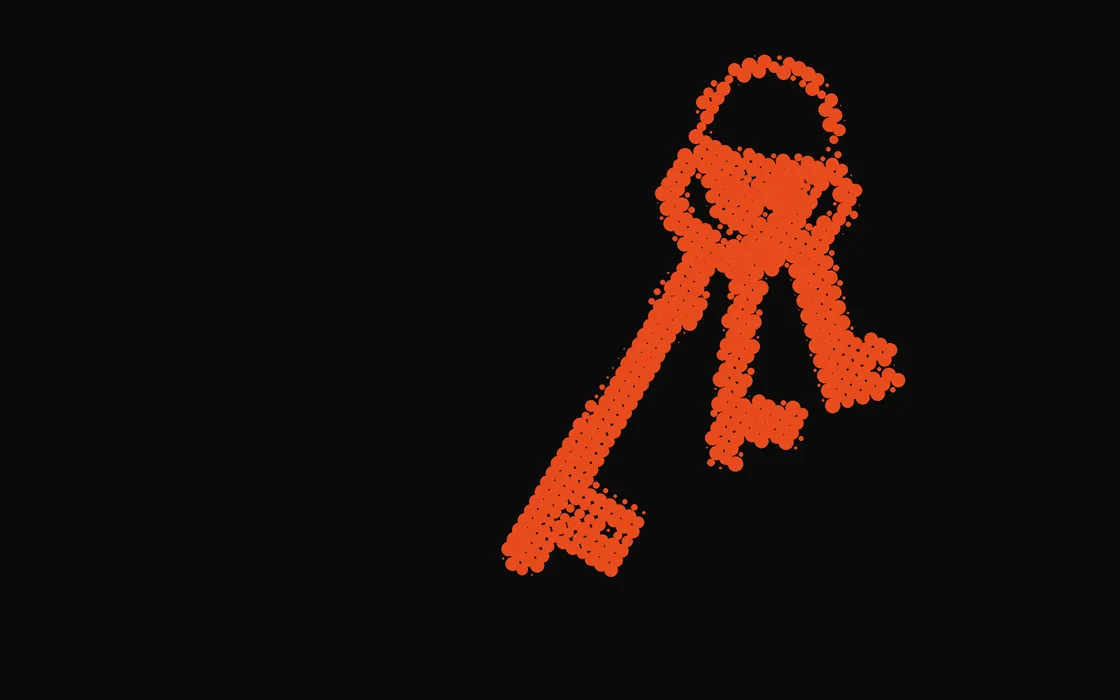
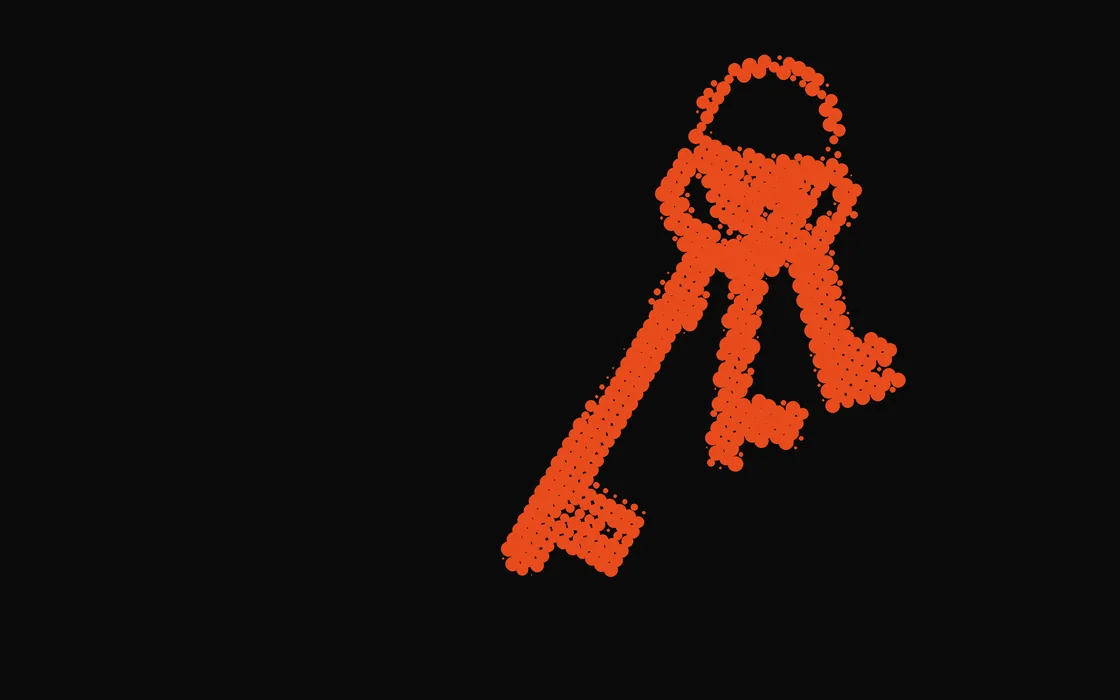
Site v4.1: page signatures, dither boil, "Deploy your agency"
- Home hero: "Deploy your agency." (title + description toned down to match)
- Services: 3D card-deck hero, one chapter per service with what's included and a pip rail, scroll-lit 5-step track, creative lanes as a hover-peek index
- About: full-bleed dot-screen arena hero that zooms on scroll, LoRes stadium scoreboard with count-up
- Products: split-screen hero with two tilting doors, one detail row per product
- Every dot-screen image now "boils" (3-frame animated WebP); reduced-motion visitors get the still frame

Claude-Session: https://claude.ai/code/session_01QV1MT2BqUvTKXwf99KFJbN

diff --git a/site.css b/site.css
@@ -14,6 +14,7 @@ body{background:var(--ink);font-family:var(--text);font-size:17px;line-height:1.
 a{color:inherit}
 ::selection{background:var(--orange);color:var(--ink)}
 img{display:block;max-width:100%}
+picture{display:contents}
 .wrap{width:min(var(--max),100% - 2*var(--gutter));margin:0 auto}
 .mono{font-family:var(--mono);font-weight:400;text-transform:uppercase;letter-spacing:.1em;font-size:12px}
 
@@ -152,6 +153,110 @@ a.tile:focus-visible{outline:2px solid var(--orange);outline-offset:3px}
 .sign nav a:hover{color:var(--paper)}
 .sign .legal{flex-basis:100%;margin:0;font-size:12px;line-height:1.5;color:var(--muted)}
 
+/* ================= page signatures (v4.1) ================= */
+
+/* SERVICES · hero deck: the four services as cards fanned in 3D */
+.deck{position:relative;justify-self:end;width:118%;max-width:640px;aspect-ratio:1/1;perspective:1300px;margin-right:-6%}
+.deck .rig{position:absolute;inset:0;transform-style:preserve-3d}
+.deck img{position:absolute;left:4%;top:20%;width:92%;height:auto;aspect-ratio:16/10;object-fit:cover;border:1px solid rgba(244,241,236,.18);background:var(--ink);will-change:transform;
+  box-shadow:0 30px 60px -30px rgba(0,0,0,.9),0 0 0 1px rgba(232,75,28,.06)}
+
+/* SERVICES · chapters: one service per band, image + what's included, pip rail tracks position */
+.chap{display:grid;grid-template-columns:minmax(0,1.15fr) minmax(0,.85fr);gap:clamp(28px,5vw,88px);align-items:center;padding:14vh 0;border-top:1px solid var(--line);scroll-margin-top:80px}
+.chap:nth-child(even) .media{order:2}
+.chap .media{position:relative;border:1px solid var(--line);perspective:1400px}
+.chap .media img{width:100%;aspect-ratio:16/10;object-fit:cover}
+.chap .media .cap{position:absolute;left:0;right:0;height:0;border-top:1.5px dashed var(--paper)}
+.chap .media .cap span{position:absolute;right:14px;top:-20px;font-family:var(--mono);font-weight:700;font-size:11px;letter-spacing:.1em}
+.chap .nm{font-family:var(--mono);text-transform:uppercase;letter-spacing:.1em;font-size:12px;color:var(--orange)}
+.chap h2{font-family:var(--display);font-style:italic;font-weight:900;letter-spacing:-.04em;line-height:.96;font-size:clamp(40px,4.8vw,76px);margin-top:14px}
+.inc{list-style:none;margin-top:4vh;border-top:1px solid var(--line)}
+.inc li{display:flex;gap:14px;align-items:center;padding:13px 0;border-bottom:1px solid var(--line);font-family:var(--mono);font-size:13px;letter-spacing:.04em;text-transform:uppercase;color:var(--body)}
+.inc li::before{content:"";width:13px;height:14px;flex:none;background:url(img/mark-slash.svg) center/contain no-repeat}
+.rail{position:fixed;left:max(14px,calc((100vw - var(--max)) / 2 - 44px));top:50%;transform:translateY(-50%);z-index:20;display:flex;flex-direction:column;gap:8px;opacity:0;transition:opacity .4s ease}
+.rail.on{opacity:1}
+.rail a{display:block;width:10px;height:22px;background:rgba(244,241,236,.18);transition:background-color .3s ease,transform .45s var(--spring)}
+.rail a.lit{background:var(--orange);transform:scaleY(1.25)}
+.rail a:hover{background:var(--paper)}.rail a:focus-visible{outline:2px solid var(--orange);outline-offset:3px}
+
+/* SERVICES · track: the five steps light up as you scroll */
+.track{position:relative;height:230vh}
+.track .stage{position:sticky;top:0;height:100vh;height:100svh;display:flex;flex-direction:column;justify-content:center}
+.track .line{position:relative;height:2px;background:rgba(244,241,236,.14);margin:8vh 0 0}
+.track .fill{position:absolute;inset:0;background:var(--orange);transform-origin:left;transform:scaleX(var(--p,0))}
+.track ol{list-style:none;display:grid;grid-template-columns:repeat(5,minmax(0,1fr));margin-top:-18px}
+.track li{position:relative}
+.track .n{display:grid;place-items:center;width:36px;height:36px;font-family:var(--score);font-weight:700;font-size:18px;color:var(--orange);background:var(--ink);border:1px solid var(--orange);transition:background-color .3s ease,color .3s ease,transform .5s var(--spring)}
+.track b{display:block;margin-top:18px;font-family:var(--display);font-style:italic;font-weight:200;letter-spacing:-.04em;line-height:1;font-size:clamp(24px,3.4vw,56px);color:var(--muted);transform-origin:left bottom;transition:color .3s ease,transform .5s var(--spring),font-weight .3s}
+.track li.lit .n{background:var(--orange);color:var(--ink)}
+.track li.lit b{color:var(--paper)}
+.track li.now b{font-weight:900;color:var(--orange);transform:scale(1.08)}
+
+/* SERVICES · creative index: rows; the dot image follows the cursor */
+.index{list-style:none;border-top:1px solid var(--line)}
+.index a{display:grid;grid-template-columns:220px 1fr;gap:24px;align-items:baseline;padding:3.2vh 0;border-bottom:1px solid var(--line);text-decoration:none;color:var(--paper);transition:color .2s ease}
+.index .nm{font-family:var(--mono);text-transform:uppercase;letter-spacing:.1em;font-size:12px;color:var(--orange)}
+.index .h{font-family:var(--display);font-style:italic;font-weight:900;letter-spacing:-.04em;line-height:1;font-size:clamp(28px,4.2vw,64px);transition:transform .45s var(--spring)}
+@media (hover:hover){.index a:hover .h{transform:translateX(18px)}}
+.index a:focus-visible{outline:2px solid var(--orange);outline-offset:4px}
+.index .thumb{display:none}
+.peek{position:fixed;left:0;top:0;width:360px;aspect-ratio:16/10;pointer-events:none;z-index:40;opacity:0;border:1px solid var(--line);transition:opacity .25s ease;will-change:transform}
+.peek img{width:100%;height:100%;object-fit:cover}
+.peek.on{opacity:1}
+
+/* ABOUT · full-bleed arena hero */
+.hero.full{min-height:100vh;min-height:100svh;align-items:end;padding:0 0 12vh}
+.hero.full .bgimg{position:absolute;inset:0;overflow:hidden}
+.hero.full .bgimg img{width:100%;height:100%;object-fit:cover;transform-origin:50% 30%;will-change:transform}
+.hero.full .wrap{display:block}
+
+/* ABOUT · scoreboard: dot-matrix panel, LoRes numerals */
+.board{position:relative;display:grid;grid-template-columns:repeat(3,minmax(0,1fr));border:1px solid var(--line);
+  background-color:#0d0c0b;background-image:radial-gradient(rgba(232,75,28,.13) 1.4px,transparent 1.6px);background-size:9px 9px}
+.board > div{padding:4.5vh 2.4vw 4vh;border-right:1px solid var(--line)}
+.board > div:last-child{border-right:0}
+.board .big{font-family:"lores-28",var(--score);font-weight:400;line-height:.85;color:var(--orange);font-size:clamp(64px,9vw,148px);letter-spacing:.01em;font-variant-numeric:tabular-nums}
+.board .who{margin-top:18px;color:var(--paper)}
+
+/* PRODUCTS · split hero: two doors, each tilts toward the cursor */
+.split{display:grid;grid-template-columns:1fr 1fr;min-height:100vh;min-height:100svh;perspective:1600px}
+.door{position:relative;display:flex;flex-direction:column;justify-content:flex-end;padding:0 var(--gutter) 12vh;text-decoration:none;color:var(--paper);overflow:hidden;border-right:1px solid var(--line);transform-style:preserve-3d;will-change:transform;transition:transform .6s var(--out)}
+.door:last-child{border-right:0}
+.door .bgimg{position:absolute;inset:0;z-index:-1}
+.door .bgimg img{width:100%;height:100%;object-fit:cover;opacity:.75;transition:opacity .4s ease,transform .8s var(--out)}
+.door .bgimg::after{content:"";position:absolute;inset:0;background:linear-gradient(to top,var(--ink) 8%,rgba(10,10,10,.35) 55%,rgba(10,10,10,.1))}
+.door .nm{font-family:var(--mono);text-transform:uppercase;letter-spacing:.1em;font-size:12px;color:var(--orange)}
+.door .hl{margin-top:14px}
+.door .hl .b,.door .hl .t{font-size:clamp(40px,5.4vw,92px);white-space:normal}
+@media (hover:hover){.door:hover .bgimg img{opacity:1;transform:scale(1.04)}}
+.door:focus-visible{outline:2px solid var(--orange);outline-offset:-6px}
+.door:active{transform:scale(.995)}
+
+/* PRODUCTS · detail rows */
+.prod{display:grid;grid-template-columns:minmax(0,1.1fr) minmax(0,.9fr);gap:clamp(28px,5vw,88px);align-items:center;padding:14vh 0;border-top:1px solid var(--line);scroll-margin-top:80px}
+.prod:nth-child(even) .media{order:2}
+.prod .media{border:1px solid var(--line)}
+.prod .media img{width:100%;aspect-ratio:16/10;object-fit:cover}
+.prod .nm{font-family:var(--mono);text-transform:uppercase;letter-spacing:.1em;font-size:12px;color:var(--orange)}
+.prod h2{font-family:var(--display);font-style:italic;font-weight:900;letter-spacing:-.04em;line-height:.96;font-size:clamp(40px,4.8vw,76px);margin-top:14px}
+.prod .ctas{margin-top:4vh}
+
+@media (max-width:860px){
+  .deck{position:absolute;right:-24vw;top:4vh;width:86vw;max-width:none;opacity:.5;z-index:-1}
+  .chap,.prod{grid-template-columns:1fr;padding:9vh 0;gap:26px}
+  .chap:nth-child(even) .media,.prod:nth-child(even) .media{order:0}
+  .rail{display:none}
+  .track{height:auto}.track .stage{position:relative;height:auto;padding:4vh 0}
+  .track .line{display:none}.track ol{grid-template-columns:1fr;gap:16px;margin-top:0}
+  .track li{display:flex;align-items:center;gap:18px}.track b{margin-top:0;color:var(--paper)}
+  .index a{grid-template-columns:1fr;gap:10px}
+  .index .thumb{display:block;border:1px solid var(--line);margin-bottom:6px}
+  .board{grid-template-columns:1fr}.board > div{border-right:0;border-bottom:1px solid var(--line)}.board > div:last-child{border-bottom:0}
+  .split{grid-template-columns:1fr;min-height:auto}
+  .door{min-height:62svh;border-right:0;border-bottom:1px solid var(--line)}
+  .door:first-child{padding-top:16vh}
+}
+
 /* ---------- motion hooks (env.js drives transform/opacity only) ---------- */
 .js [data-rise]{opacity:0;transform:translateY(28px);transition:opacity .9s var(--out),transform .9s var(--out);transition-delay:calc(var(--i,0) * 110ms)}
 .js [data-rise].in{opacity:1;transform:none}
@@ -176,4 +281,5 @@ a.tile:focus-visible{outline:2px solid var(--orange);outline-offset:3px}
   .js [data-rise],.js [data-fly]{opacity:1;transform:none;transition:none}
   .menu ol a{opacity:1;transform:none;transition:none}
   .depth{height:auto}.depth .stage{position:relative;height:auto;padding:18vh 0}
+  .track{height:auto}.track .stage{position:relative;height:auto}
 }

diff --git a/index.html b/index.html
@@ -3,11 +3,11 @@
 <head>
 <meta charset="utf-8">
 <meta name="viewport" content="width=device-width, initial-scale=1, viewport-fit=cover">
-<title>GASP! Essential · Hire your first AI employee</title>
-<meta name="description" content="GASP! Essential sets up, runs, budgets and governs AI for small businesses, plus the lead generation, brand and content that run on top. St. Louis.">
+<title>GASP! Essential · Deploy your agency</title>
+<meta name="description" content="GASP! Essential builds the systems that take repeat work off a small team, plus the lead generation, brand and content that run on top. St. Louis.">
 <meta name="theme-color" content="#0A0A0A">
-<meta property="og:title" content="GASP! Essential · Hire your first AI employee">
-<meta property="og:description" content="GASP! Essential sets up, runs, budgets and governs AI for small businesses, plus the lead generation, brand and content that run on top. St. Louis.">
+<meta property="og:title" content="GASP! Essential · Deploy your agency">
+<meta property="og:description" content="GASP! Essential builds the systems that take repeat work off a small team, plus the lead generation, brand and content that run on top. St. Louis.">
 <link rel="icon" href="logo.svg" type="image/svg+xml">
 <link rel="preconnect" href="https://use.typekit.net" crossorigin>
 <link rel="stylesheet" href="https://use.typekit.net/xsp0whc.css">
@@ -26,11 +26,11 @@
 </nav>
 <main>
 <section class="hero"><div class="glow" aria-hidden="true"></div><div class="wrap">
-  <h1 class="hl" data-rise-group><span class="t" id="hi">Hire your</span><span class="t ind">first</span><span class="b">AI employee.</span></h1>
+  <h1 class="hl" style="--t:clamp(44px,7.4vw,124px);--b:clamp(72px,12.4vw,206px)" data-rise-group><span class="t" id="hi">Deploy your</span><span class="b">agency.</span></h1>
   <div class="bang3d" aria-hidden="true"><div class="rig"><img src="img/bang-guides.svg" alt=""><img src="img/bang-body.svg" alt=""><img src="img/bang-points.svg" alt=""></div></div>
 </div></section>
 <section class="sec" id="services"><div class="wrap">
-  <div class="tiles"><a class="tile" id="onboard" href="services.html#onboard" data-fly><div class="img"><img src="img/onboard.webp" alt="" width="1120" height="700" loading="lazy"></div><div class="txt"><div class="nm">Workspace deployment</div><div class="h">Plugged into your tools.</div></div></a><a class="tile" id="manage" href="services.html#manage" data-fly><div class="img"><img src="img/manage.webp" alt="" width="1120" height="700" loading="lazy"></div><div class="txt"><div class="nm">Managed agents</div><div class="h">Runs itself.</div></div></a><a class="tile" id="budget" href="services.html#budget" data-fly><div class="img"><img src="img/budget.webp" alt="" width="1120" height="700" loading="lazy"><div class="cap" style="top:27.1%"><span>CAP</span></div></div><div class="txt"><div class="nm">Managed AI spend</div><div class="h">No surprise bills.</div></div></a><a class="tile" id="govern" href="services.html#govern" data-fly><div class="img"><img src="img/govern.webp" alt="" width="1120" height="700" loading="lazy"></div><div class="txt"><div class="nm">Security + governance</div><div class="h">Your yes. Every time.</div></div></a></div>
+  <div class="tiles"><a class="tile" id="onboard" href="services.html#onboard" data-fly><div class="img"><picture><source srcset="img/onboard.webp" media="(prefers-reduced-motion: reduce)"><img src="img/onboard-boil.webp" alt="" width="1120" height="700" loading="lazy"></picture></div><div class="txt"><div class="nm">Workspace deployment</div><div class="h">Plugged into your tools.</div></div></a><a class="tile" id="manage" href="services.html#manage" data-fly><div class="img"><picture><source srcset="img/manage.webp" media="(prefers-reduced-motion: reduce)"><img src="img/manage-boil.webp" alt="" width="1120" height="700" loading="lazy"></picture></div><div class="txt"><div class="nm">Managed agents</div><div class="h">Runs itself.</div></div></a><a class="tile" id="budget" href="services.html#budget" data-fly><div class="img"><picture><source srcset="img/budget.webp" media="(prefers-reduced-motion: reduce)"><img src="img/budget-boil.webp" alt="" width="1120" height="700" loading="lazy"></picture><div class="cap" style="top:27.1%"><span>CAP</span></div></div><div class="txt"><div class="nm">Managed AI spend</div><div class="h">No surprise bills.</div></div></a><a class="tile" id="govern" href="services.html#govern" data-fly><div class="img"><picture><source srcset="img/govern.webp" media="(prefers-reduced-motion: reduce)"><img src="img/govern-boil.webp" alt="" width="1120" height="700" loading="lazy"></picture></div><div class="txt"><div class="nm">Security + governance</div><div class="h">Your yes. Every time.</div></div></a></div>
 </div></section>
 <section class="depth" aria-label="The idea"><div class="stage"><div class="inner">
   <p class="q">What separated the teams that grew from the ones that just stayed busy?</p>
@@ -42,11 +42,11 @@
 </div></section>
 <section class="sec" id="creative"><div class="wrap">
   <h2 class="bk" data-rise>Creative, <em>too.</em></h2>
-  <div class="tiles three"><a class="tile" id="leads" href="services.html#leads" data-fly><div class="img"><img src="img/leads.webp" alt="" width="1120" height="700" loading="lazy"></div><div class="txt"><div class="nm">Lead generation</div><div class="h">A prospect list that researches itself.</div></div></a><a class="tile" id="brand" href="services.html#brand" data-fly><div class="img"><img src="img/brand.webp" alt="" width="1120" height="700" loading="lazy"></div><div class="txt"><div class="nm">Brand + design</div><div class="h">Look like the company you're becoming.</div></div></a><a class="tile" id="content" href="services.html#content" data-fly><div class="img"><img src="img/content.webp" alt="" width="1120" height="700" loading="lazy"></div><div class="txt"><div class="nm">Content production</div><div class="h">One shoot. A month of posts.</div></div></a></div>
+  <div class="tiles three"><a class="tile" id="leads" href="services.html#leads" data-fly><div class="img"><picture><source srcset="img/leads.webp" media="(prefers-reduced-motion: reduce)"><img src="img/leads-boil.webp" alt="" width="1120" height="700" loading="lazy"></picture></div><div class="txt"><div class="nm">Lead generation</div><div class="h">A prospect list that researches itself.</div></div></a><a class="tile" id="brand" href="services.html#brand" data-fly><div class="img"><picture><source srcset="img/brand.webp" media="(prefers-reduced-motion: reduce)"><img src="img/brand-boil.webp" alt="" width="1120" height="700" loading="lazy"></picture></div><div class="txt"><div class="nm">Brand + design</div><div class="h">Look like the company you're becoming.</div></div></a><a class="tile" id="content" href="services.html#content" data-fly><div class="img"><picture><source srcset="img/content.webp" media="(prefers-reduced-motion: reduce)"><img src="img/content-boil.webp" alt="" width="1120" height="700" loading="lazy"></picture></div><div class="txt"><div class="nm">Content production</div><div class="h">One shoot. A month of posts.</div></div></a></div>
 </div></section>
 <section class="sec" id="products"><div class="wrap">
   <h2 class="bk" data-rise>Off the shelf, <em>or built to order.</em></h2>
-  <div class="tiles"><a class="tile" id="socialcut" href="products.html#socialcut" data-fly><div class="img"><img src="img/socialcut.webp" alt="" width="1120" height="700" loading="lazy"></div><div class="txt"><div class="nm">Social Cut</div><div class="h">One video in. A week of content out.</div></div></a><a class="tile" id="custom" href="products.html#custom" data-fly><div class="img"><img src="img/custom.webp" alt="" width="1120" height="700" loading="lazy"></div><div class="txt"><div class="nm">Custom solutions</div><div class="h">The tool you wish existed.</div></div></a></div>
+  <div class="tiles"><a class="tile" id="socialcut" href="products.html#socialcut" data-fly><div class="img"><picture><source srcset="img/socialcut.webp" media="(prefers-reduced-motion: reduce)"><img src="img/socialcut-boil.webp" alt="" width="1120" height="700" loading="lazy"></picture></div><div class="txt"><div class="nm">Social Cut</div><div class="h">One video in. A week of content out.</div></div></a><a class="tile" id="custom" href="products.html#custom" data-fly><div class="img"><picture><source srcset="img/custom.webp" media="(prefers-reduced-motion: reduce)"><img src="img/custom-boil.webp" alt="" width="1120" height="700" loading="lazy"></picture></div><div class="txt"><div class="nm">Custom solutions</div><div class="h">The tool you wish existed.</div></div></a></div>
 </div></section>
 <section class="close"><div class="wrap">
   <h2 class="bk" id="closeq" data-rise>Who would you hire <em>first?</em></h2>

diff --git a/services.html b/services.html
@@ -27,19 +27,20 @@
 <main>
 <section class="hero"><div class="glow" aria-hidden="true"></div><div class="wrap">
   <h1 class="hl" data-rise-group><span class="t">Four jobs.</span><span class="b">One hire.</span></h1>
-  <div class="bang3d" aria-hidden="true"><div class="rig"><img src="img/bang-guides.svg" alt=""><img src="img/bang-body.svg" alt=""><img src="img/bang-points.svg" alt=""></div></div>
+  <div class="deck" aria-hidden="true"><div class="rig"><picture><source srcset="img/govern.webp" media="(prefers-reduced-motion: reduce)"><img src="img/govern-boil.webp" alt="" width="1120" height="700"></picture><picture><source srcset="img/budget.webp" media="(prefers-reduced-motion: reduce)"><img src="img/budget-boil.webp" alt="" width="1120" height="700"></picture><picture><source srcset="img/manage.webp" media="(prefers-reduced-motion: reduce)"><img src="img/manage-boil.webp" alt="" width="1120" height="700"></picture><picture><source srcset="img/onboard.webp" media="(prefers-reduced-motion: reduce)"><img src="img/onboard-boil.webp" alt="" width="1120" height="700"></picture></div></div>
 </div></section>
-<section class="sec" style="padding-top:4vh"><div class="wrap">
-  <div class="tiles"><div class="tile" id="onboard" data-fly><div class="img"><img src="img/onboard.webp" alt="" width="1120" height="700" loading="lazy"></div><div class="txt"><div class="nm">Workspace deployment</div><div class="h">Plugged into your tools.</div></div></div><div class="tile" id="manage" data-fly><div class="img"><img src="img/manage.webp" alt="" width="1120" height="700" loading="lazy"></div><div class="txt"><div class="nm">Managed agents</div><div class="h">Runs itself.</div></div></div><div class="tile" id="budget" data-fly><div class="img"><img src="img/budget.webp" alt="" width="1120" height="700" loading="lazy"><div class="cap" style="top:27.1%"><span>CAP</span></div></div><div class="txt"><div class="nm">Managed AI spend</div><div class="h">No surprise bills.</div></div></div><div class="tile" id="govern" data-fly><div class="img"><img src="img/govern.webp" alt="" width="1120" height="700" loading="lazy"></div><div class="txt"><div class="nm">Security + governance</div><div class="h">Your yes. Every time.</div></div></div></div>
-</div></section>
-<section class="sec"><div class="wrap">
-  <h2 class="bk" data-rise>How it <em>starts.</em></h2>
-  <ol class="steps" data-rise-group><li><span class="n">1</span><b>Assess</b></li><li><span class="n">2</span><b>Pilot</b></li><li><span class="n">3</span><b>Build</b></li><li><span class="n">4</span><b>Roll out</b></li><li><span class="n">5</span><b>Run</b></li></ol>
-</div></section>
+<nav class="rail" aria-label="Services"><a href="#onboard" aria-label="Workspace deployment"></a><a href="#manage" aria-label="Managed agents"></a><a href="#budget" aria-label="Managed AI spend"></a><a href="#govern" aria-label="Security + governance"></a></nav>
+<section data-rail-zone><div class="wrap"><article class="chap" id="onboard"><div class="media" data-fly><picture><source srcset="img/onboard.webp" media="(prefers-reduced-motion: reduce)"><img src="img/onboard-boil.webp" alt="" width="1120" height="700" loading="lazy"></picture></div><div class="copy" data-rise-group><div class="nm">Workspace deployment</div><h2>Plugged into your tools.</h2><ul class="inc"><li>Your tools connected</li><li>Repeat work, one click</li><li>Routine jobs on a schedule</li><li>Team trained</li></ul></div></article><article class="chap" id="manage"><div class="media" data-fly><picture><source srcset="img/manage.webp" media="(prefers-reduced-motion: reduce)"><img src="img/manage-boil.webp" alt="" width="1120" height="700" loading="lazy"></picture></div><div class="copy" data-rise-group><div class="nm">Managed agents</div><h2>Runs itself.</h2><ul class="inc"><li>Workflows that run themselves</li><li>A person watches each one</li><li>Weekly scorecard</li></ul></div></article><article class="chap" id="budget"><div class="media" data-fly><picture><source srcset="img/budget.webp" media="(prefers-reduced-motion: reduce)"><img src="img/budget-boil.webp" alt="" width="1120" height="700" loading="lazy"></picture><div class="cap" style="top:27.1%"><span>CAP</span></div></div><div class="copy" data-rise-group><div class="nm">Managed AI spend</div><h2>No surprise bills.</h2><ul class="inc"><li>Right plans and seats</li><li>Hard spend caps</li><li>Monthly usage review</li><li>Cheapest path wins</li></ul></div></article><article class="chap" id="govern"><div class="media" data-fly><picture><source srcset="img/govern.webp" media="(prefers-reduced-motion: reduce)"><img src="img/govern-boil.webp" alt="" width="1120" height="700" loading="lazy"></picture></div><div class="copy" data-rise-group><div class="nm">Security + governance</div><h2>Your yes. Every time.</h2><ul class="inc"><li>Written AI use policy</li><li>Permissions per action</li><li>Data stays put</li><li>Your yes on money</li></ul></div></article></div></section>
+<section class="track" aria-label="How it starts"><div class="stage"><div class="wrap">
+  <h2 class="bk">How it <em>starts.</em></h2>
+  <div class="line"><div class="fill"></div></div>
+  <ol><li><span class="n">1</span><b>Assess</b></li><li><span class="n">2</span><b>Pilot</b></li><li><span class="n">3</span><b>Build</b></li><li><span class="n">4</span><b>Roll out</b></li><li><span class="n">5</span><b>Run</b></li></ol>
+</div></div></section>
 <section class="sec"><div class="wrap">
   <h2 class="bk" data-rise>Creative, <em>too.</em></h2>
-  <div class="tiles three"><div class="tile" id="leads" data-fly><div class="img"><img src="img/leads.webp" alt="" width="1120" height="700" loading="lazy"></div><div class="txt"><div class="nm">Lead generation</div><div class="h">A prospect list that researches itself.</div></div></div><div class="tile" id="brand" data-fly><div class="img"><img src="img/brand.webp" alt="" width="1120" height="700" loading="lazy"></div><div class="txt"><div class="nm">Brand + design</div><div class="h">Look like the company you're becoming.</div></div></div><div class="tile" id="content" data-fly><div class="img"><img src="img/content.webp" alt="" width="1120" height="700" loading="lazy"></div><div class="txt"><div class="nm">Content production</div><div class="h">One shoot. A month of posts.</div></div></div></div>
+  <ul class="index" data-rise-group><li><a href="mailto:tyler.fitton@gaspessential.com?subject=Lead%20generation" id="leads" data-img="img/leads-boil.webp"><img class="thumb" src="img/leads.webp" alt="" loading="lazy"><span class="nm">Lead generation</span><span class="h">A prospect list that researches itself.</span></a></li><li><a href="mailto:tyler.fitton@gaspessential.com?subject=Brand%20and%20design" id="brand" data-img="img/brand-boil.webp"><img class="thumb" src="img/brand.webp" alt="" loading="lazy"><span class="nm">Brand + design</span><span class="h">Look like the company you're becoming.</span></a></li><li><a href="mailto:tyler.fitton@gaspessential.com?subject=Content%20production" id="content" data-img="img/content-boil.webp"><img class="thumb" src="img/content.webp" alt="" loading="lazy"><span class="nm">Content production</span><span class="h">One shoot. A month of posts.</span></a></li></ul>
 </div></section>
+<div class="peek" aria-hidden="true"><picture><source srcset="img/leads.webp" media="(prefers-reduced-motion: reduce)"><img src="img/leads-boil.webp" alt=""></picture></div>
 <section class="close"><div class="wrap">
   <h2 class="bk" id="closeq" data-rise>Who would you hire <em>first?</em></h2>
   <div class="ctas" data-rise><a class="btn" href="mailto:tyler.fitton@gaspessential.com?subject=Discovery%20audit" data-magnet><svg class="a" viewBox="0 0 16 16" fill="none" stroke="currentColor" stroke-width="1.6" aria-hidden="true"><rect x="1.5" y="3" width="13" height="10" rx="1.5"/><path d="M2 4l6 5 6-5"/></svg><span class="t">Book a free discovery audit</span><svg class="b" viewBox="0 0 16 16" fill="none" stroke="currentColor" stroke-width="1.8" aria-hidden="true"><path d="M3 8h10M9 4l4 4-4 4"/></svg></a></div>

diff --git a/env.js b/env.js
@@ -16,7 +16,7 @@
   const clean = v => (v || "").replace(/[<>{}$]/g, "").replace(/\s+/g, " ").trim().slice(0, 40);
   const bad = s => !s || /^\$|lead\.|first.?name|company/i.test(s);
   const name = clean(q.get("name")), co = clean(q.get("co"));
-  const hi = d.getElementById("hi"); if (hi && !bad(name)) hi.textContent = `${name}, hire your`;
+  const hi = d.getElementById("hi"); if (hi && !bad(name)) hi.textContent = `${name}, deploy your`;
   const cq = d.getElementById("closeq"); if (cq && !bad(co)) cq.innerHTML = `Who would ${co} hire <em>first?</em>`;
 
   /* ---------- menu ---------- */
@@ -42,12 +42,54 @@
   if (reduce || !("IntersectionObserver" in window)) rises.forEach(el => el.classList.add("in"));
   else { const io = new IntersectionObserver(es => es.forEach(e => { if (e.isIntersecting) { e.target.classList.add("in"); io.unobserve(e.target); } }), { threshold: .15, rootMargin: "0px 0px -6% 0px" }); rises.forEach(el => io.observe(el)); }
 
-  if (reduce) { addEventListener("scroll", navF, { passive: true }); navF(); $$("[data-fly]").forEach(el => el.style.opacity = 1); return; }
+  /* ---------- scoreboard count-up (About) ---------- */
+  const counts = $$("[data-count]");
+  const runCount = el => { const to = +el.dataset.count, suf = el.dataset.suf || "", t0 = performance.now(), dur = reduce ? 0 : 1400;
+    const step = now => { const k = dur ? clamp((now - t0) / dur) : 1; el.textContent = Math.round(to * ease(k)) + suf; if (k < 1) requestAnimationFrame(step); }; requestAnimationFrame(step); };
+  if ("IntersectionObserver" in window) { const io = new IntersectionObserver(es => es.forEach(e => { if (e.isIntersecting) { runCount(e.target); io.unobserve(e.target); } }), { threshold: .5 }); counts.forEach(el => io.observe(el)); }
+  else counts.forEach(runCount);
+
+  /* ---------- pip rail (Services): which chapter you're in ---------- */
+  const rail = d.querySelector(".rail"), chaps = $$(".chap");
+  if (rail && chaps.length && "IntersectionObserver" in window) {
+    const pips = $$("a", rail);
+    const io = new IntersectionObserver(es => es.forEach(e => { if (e.isIntersecting) { const i = chaps.indexOf(e.target); pips.forEach((p, j) => p.classList.toggle("lit", j === i)); } }), { rootMargin: "-45% 0px -45% 0px" });
+    chaps.forEach(c => io.observe(c));
+    const sec = rail.closest("[data-rail-zone]") || chaps[0].parentElement;
+    const io2 = new IntersectionObserver(es => es.forEach(e => rail.classList.toggle("on", e.isIntersecting)), { rootMargin: "-40% 0px -40% 0px" });
+    io2.observe(sec);
+  }
+
+  /* ---------- index peek (Services): the lane's image follows the cursor ---------- */
+  const peek = d.querySelector(".peek");
+  if (peek && matchMedia("(hover:hover)").matches && !reduce) {
+    const pimg = peek.querySelector("img"); let mx = 0, my = 0, cx = 0, cy = 0, on = false;
+    $$(".index a").forEach(a => {
+      a.addEventListener("pointerenter", () => { pimg.src = a.dataset.img; peek.classList.add("on"); on = true; });
+      a.addEventListener("pointerleave", () => { peek.classList.remove("on"); on = false; }); });
+    addEventListener("pointermove", e => { mx = e.clientX; my = e.clientY; }, { passive: true });
+    const loop = () => { cx += (mx - cx) * .14; cy += (my - cy) * .14;
+      if (on) peek.style.transform = `translate3d(${(cx + 28).toFixed(1)}px,${(cy - 120).toFixed(1)}px,0) rotate(${clamp((mx - cx) * .06, -8, 8).toFixed(2)}deg)`;
+      requestAnimationFrame(loop); }; loop();
+  }
+
+  /* ---------- door tilt (Products) ---------- */
+  if (!reduce && matchMedia("(hover:hover)").matches) $$(".door").forEach(door => {
+    door.addEventListener("pointermove", e => { const r = door.getBoundingClientRect(), x = (e.clientX - r.left) / r.width - .5, y = (e.clientY - r.top) / r.height - .5;
+      door.style.transform = `rotateY(${(x * 7).toFixed(2)}deg) rotateX(${(-y * 5).toFixed(2)}deg) translateZ(14px)`; });
+    door.addEventListener("pointerleave", () => { door.style.transform = ""; }); });
+
+  if (reduce) { addEventListener("scroll", navF, { passive: true }); navF(); $$("[data-fly]").forEach(el => el.style.opacity = 1); $$(".track li").forEach(l => l.classList.add("lit")); return; }
+
+  /* ---------- deck (Services hero) + zoom (About hero) + track (Services) ---------- */
+  const deck = $$(".deck img"), zoom = d.querySelector("[data-zoom]"), track = d.querySelector(".track");
+  const tsteps = track ? $$("li", track) : [];
+  let dx = 0, dy = 0;
 
   /* ---------- 1 · construction bang ---------- */
   const rig = d.querySelector(".bang3d .rig");
   let px = 0, py = 0, rx = 0, ry = 0;
-  if (rig && matchMedia("(hover:hover)").matches) addEventListener("pointermove", e => { px = e.clientX / innerWidth - .5; py = e.clientY / innerHeight - .5; }, { passive: true });
+  if ((rig || d.querySelector(".deck")) && matchMedia("(hover:hover)").matches) addEventListener("pointermove", e => { px = e.clientX / innerWidth - .5; py = e.clientY / innerHeight - .5; }, { passive: true });
 
   /* ---------- 2 · tiles fly out of depth ---------- */
   const flyers = $$("[data-fly]").map(el => { const g = el.parentElement, i = [...g.children].indexOf(el), cols = getComputedStyle(g).gridTemplateColumns.split(" ").length || 1; return { el, lag: (i % cols) * .12 + Math.floor(i / cols) * .04, v: -1 }; });
@@ -72,6 +114,19 @@
       if (Math.abs(p - f.v) < .002) continue; f.v = p;
       f.el.style.opacity = p.toFixed(3);
       f.el.style.transform = p > .999 ? "" : `translate3d(0,${((1 - p) * 70).toFixed(1)}px,${((1 - p) * -320).toFixed(1)}px) rotateX(${((1 - p) * 26).toFixed(2)}deg)`;
+    }
+    if (deck.length) {
+      const sp = clamp(scrollY / vh), n = deck.length;
+      dx += (px - dx) * .08; dy += (py - dy) * .08;
+      deck.forEach((c, i) => { const k = i - (n - 1) / 2, fan = .35 + .65 * Math.min(1, (now / 1000) / 1.4) + sp * .6;
+        c.style.transform = `translate3d(${(k * 70 * fan + dx * 30).toFixed(1)}px,${(k * -34 * fan - sp * 60).toFixed(1)}px,${(i * -90 - sp * 160).toFixed(1)}px) rotateZ(${(k * 6 * fan).toFixed(2)}deg) rotateY(${(-18 + dx * 22).toFixed(2)}deg) rotateX(${(8 - dy * 14).toFixed(2)}deg)`; });
+    }
+    if (zoom) { const sp = clamp(scrollY / vh); zoom.style.transform = `scale(${(1.08 + sp * .18).toFixed(3)}) translateY(${(sp * 6).toFixed(2)}%)`; }
+    if (track && tsteps.length) {
+      const r = track.getBoundingClientRect(), p = clamp(-r.top / Math.max(1, r.height - vh) * 1.1);
+      track.style.setProperty("--p", p.toFixed(3));
+      const at = Math.min(tsteps.length - 1, Math.floor(p * tsteps.length));
+      tsteps.forEach((l, i) => { l.classList.toggle("lit", p > 0 && i <= at); l.classList.toggle("now", p > 0 && i === at); });
     }
     for (const o of depths) {
       const r = o.s.getBoundingClientRect(), span = r.height - vh;

diff --git a/products.html b/products.html
@@ -25,13 +25,13 @@
   <div class="foot"><a href="mailto:tyler.fitton@gaspessential.com">tyler.fitton@gaspessential.com</a><a href="https://socialcut.io" target="_blank" rel="noopener">socialcut.io</a></div>
 </nav>
 <main>
-<section class="hero"><div class="glow" aria-hidden="true"></div><div class="wrap">
-  <h1 class="hl" style="--b:clamp(44px,6.2vw,98px)" data-rise-group><span class="t">Off the shelf,</span><span class="b">or built to order.</span></h1>
-  <div class="bang3d" aria-hidden="true"><div class="rig"><img src="img/bang-guides.svg" alt=""><img src="img/bang-body.svg" alt=""><img src="img/bang-points.svg" alt=""></div></div>
-</div></section>
-<section class="sec" style="padding-top:4vh"><div class="wrap">
-  <div class="tiles"><div class="tile" id="socialcut" data-fly><div class="img"><img src="img/socialcut.webp" alt="" width="1120" height="700" loading="lazy"></div><div class="txt"><div class="nm">Social Cut</div><div class="h">One video in. A week of content out.</div></div></div><div class="tile" id="custom" data-fly><div class="img"><img src="img/custom.webp" alt="" width="1120" height="700" loading="lazy"></div><div class="txt"><div class="nm">Custom solutions</div><div class="h">The tool you wish existed.</div></div></div></div>
-  <div class="ctas" style="margin-top:5vh" data-rise><a class="link" href="https://socialcut.io"><span class="win"><span class="stack"><span>Join the Social Cut waitlist</span><span>Join the Social Cut waitlist</span></span></span><svg viewBox="0 0 14 14" fill="none" stroke="currentColor" stroke-width="1.6" aria-hidden="true"><path d="M4 10L10 4M5 4h5v5"/></svg></a><a class="link" href="mailto:tyler.fitton@gaspessential.com?subject=Custom%20solution%20idea"><span class="win"><span class="stack"><span>Pitch a custom tool</span><span>Pitch a custom tool</span></span></span><svg viewBox="0 0 14 14" fill="none" stroke="currentColor" stroke-width="1.6" aria-hidden="true"><path d="M4 10L10 4M5 4h5v5"/></svg></a></div>
+<section class="split">
+  <a class="door" href="#socialcut"><div class="bgimg" aria-hidden="true"><picture><source srcset="img/socialcut.webp" media="(prefers-reduced-motion: reduce)"><img src="img/socialcut-boil.webp" alt=""></picture></div><div class="nm">Social Cut</div><h1 class="hl"><span class="t">Off the shelf,</span></h1></a>
+  <a class="door" href="#custom"><div class="bgimg" aria-hidden="true"><picture><source srcset="img/custom.webp" media="(prefers-reduced-motion: reduce)"><img src="img/custom-boil.webp" alt=""></picture></div><div class="nm">Custom solutions</div><div class="hl"><span class="b">or built to order.</span></div></a>
+</section>
+<section><div class="wrap">
+  <article class="prod" id="socialcut"><div class="media" data-fly><picture><source srcset="img/socialcut.webp" media="(prefers-reduced-motion: reduce)"><img src="img/socialcut-boil.webp" alt="" width="1120" height="700" loading="lazy"></picture></div><div class="copy" data-rise-group><div class="nm">Social Cut</div><h2>One video in. A week of content out.</h2><ul class="inc"><li>Captioned cuts, every ratio</li><li>A carousel from the key points</li><li>Post copy per platform</li></ul><div class="ctas"><a class="btn" href="https://socialcut.io" target="_blank" rel="noopener"><svg class="a" viewBox="0 0 16 16" fill="none" stroke="currentColor" stroke-width="1.6" aria-hidden="true"><rect x="1.5" y="3" width="13" height="10" rx="1.5"/><path d="M2 4l6 5 6-5"/></svg><span class="t">Join the waitlist</span><svg class="b" viewBox="0 0 16 16" fill="none" stroke="currentColor" stroke-width="1.8" aria-hidden="true"><path d="M3 8h10M9 4l4 4-4 4"/></svg></a></div></div></article>
+  <article class="prod" id="custom"><div class="media" data-fly><picture><source srcset="img/custom.webp" media="(prefers-reduced-motion: reduce)"><img src="img/custom-boil.webp" alt="" width="1120" height="700" loading="lazy"></picture></div><div class="copy" data-rise-group><div class="nm">Custom solutions</div><h2>The tool you wish existed.</h2><ul class="inc"><li>Scoped with you</li><li>Built end to end</li><li>Launched and supported</li></ul><div class="ctas"><a class="btn" href="mailto:tyler.fitton@gaspessential.com?subject=Custom%20solution%20idea"><svg class="a" viewBox="0 0 16 16" fill="none" stroke="currentColor" stroke-width="1.6" aria-hidden="true"><rect x="1.5" y="3" width="13" height="10" rx="1.5"/><path d="M2 4l6 5 6-5"/></svg><span class="t">Pitch an idea</span><svg class="b" viewBox="0 0 16 16" fill="none" stroke="currentColor" stroke-width="1.8" aria-hidden="true"><path d="M3 8h10M9 4l4 4-4 4"/></svg></a></div></div></article>
 </div></section>
 <section class="close"><div class="wrap">
   <h2 class="bk" id="closeq" data-rise>Who would you hire <em>first?</em></h2>

diff --git a/about.html b/about.html
@@ -25,16 +25,15 @@
   <div class="foot"><a href="mailto:tyler.fitton@gaspessential.com">tyler.fitton@gaspessential.com</a><a href="https://socialcut.io" target="_blank" rel="noopener">socialcut.io</a></div>
 </nav>
 <main>
-<section class="hero"><div class="glow" aria-hidden="true"></div><div class="wrap">
+<section class="hero full"><div class="bgimg" aria-hidden="true"><picture><source srcset="img/arena.webp" media="(prefers-reduced-motion: reduce)"><img src="img/arena-boil.webp" alt="" data-zoom></picture></div><div class="wrap">
   <h1 class="hl" data-rise-group><span class="t">Trained inside</span><span class="b">the arena.</span></h1>
-  <div class="bang3d" aria-hidden="true"><div class="rig"><img src="img/bang-guides.svg" alt=""><img src="img/bang-body.svg" alt=""><img src="img/bang-points.svg" alt=""></div></div>
 </div></section>
 <section class="sec"><div class="wrap">
   <h2 class="bk" data-rise>1.84M followers. <em>Three pro teams.</em></h2>
-  <div class="stats" data-rise-group>
-    <div><div class="big">884K</div><div class="who mono">Pittsburgh Pirates</div></div>
-    <div><div class="big">220K</div><div class="who mono">Sporting Kansas City</div></div>
-    <div><div class="big">734K</div><div class="who mono">St. Louis Blues</div></div>
+  <div class="board" data-rise>
+    <div><div class="big" data-count="884" data-suf="K">884K</div><div class="who mono">Pittsburgh Pirates</div></div>
+    <div><div class="big" data-count="220" data-suf="K">220K</div><div class="who mono">Sporting Kansas City</div></div>
+    <div><div class="big" data-count="734" data-suf="K">734K</div><div class="who mono">St. Louis Blues</div></div>
   </div>
 </div></section>
 <section class="sec"><div class="wrap">
